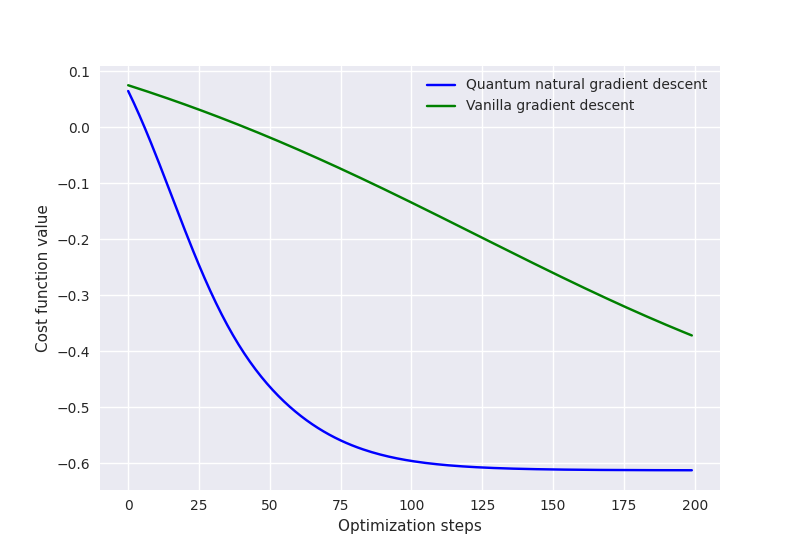
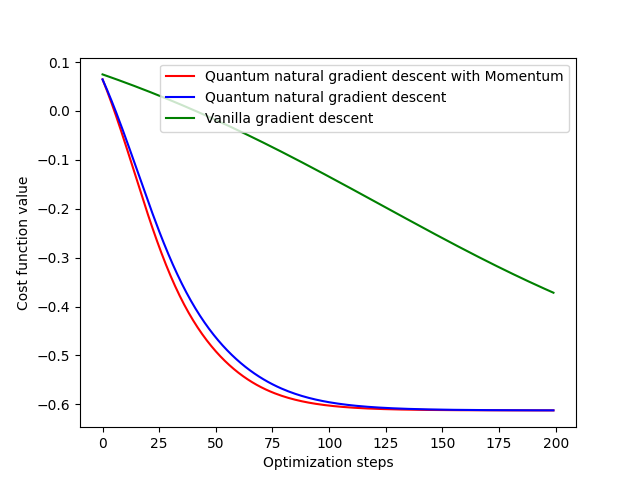
[feat] add qng with momentum

diff --git a/source/rst/vqc_demo.rst b/source/rst/vqc_demo.rst
@@ -326,7 +326,7 @@ Circuit-centric quantum classifiers算法示例
             return self.ma(q_machine=self.qm)
 
 
-使用SGD经典梯度下降法作为基线比较两者在相同迭代次数下的损失值变化情况,可见使用量子自然梯度,该损失函数下降更快。
+使用SGD经典梯度下降法作为基线比较量子自然梯度，带动量的量子自然梯度在相同迭代次数下的损失值变化情况,可见使用量子自然梯度,该损失函数下降更快。
 
 .. code-block::
 
@@ -343,6 +343,18 @@ Circuit-centric quantum classifiers算法示例
         yy = qng_model(None).to_numpy().reshape([1])
         qng_cost.append(yy)
 
+
+    x = QTensor([0.432, -0.123, 0.543, 0.233],
+                dtype=pyvqnet.kfloat64)
+    qng_model = Hmodel(3, pyvqnet.kcomplex128,x)
+    qng = pyvqnet.qnn.vqc.QNG(qng_model, 0.01,0.1)
+    qng_m_cost = []
+    for s in steps:
+        qng.zero_grad()
+        qng.step(None)
+        yy = qng_model(None).to_numpy().reshape([1])
+        qng_m_cost.append(yy)
+
     x = QTensor([0.432, -0.123, 0.543, 0.233],
                 requires_grad=True,
                 dtype=pyvqnet.kfloat64)
@@ -358,8 +370,7 @@ Circuit-centric quantum classifiers算法示例
 
         sgd_cost.append(y.to_numpy().reshape([1]))
 
-
-    plt.style.use("seaborn")
+    plt.plot(qng_m_cost, "r", label="Quantum natural gradient descent with Momentum")
     plt.plot(qng_cost, "b", label="Quantum natural gradient descent")
     plt.plot(sgd_cost, "g", label="Vanilla gradient descent")
 
@@ -367,6 +378,7 @@ Circuit-centric quantum classifiers算法示例
     plt.xlabel("Optimization steps")
     plt.legend()
     plt.savefig('qng_new_compare.png')
+
 
 
 
